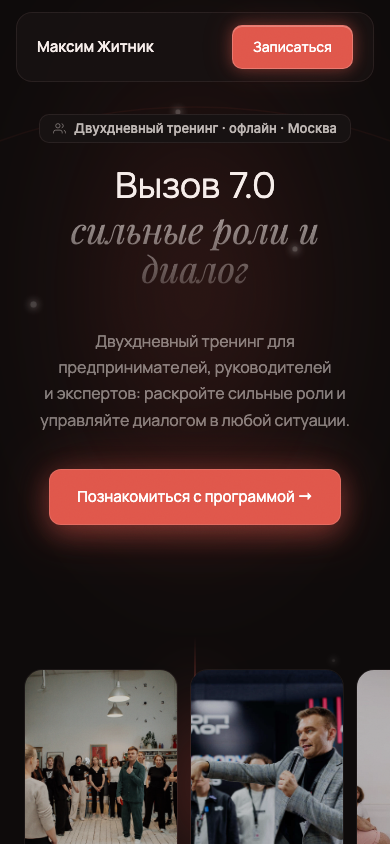
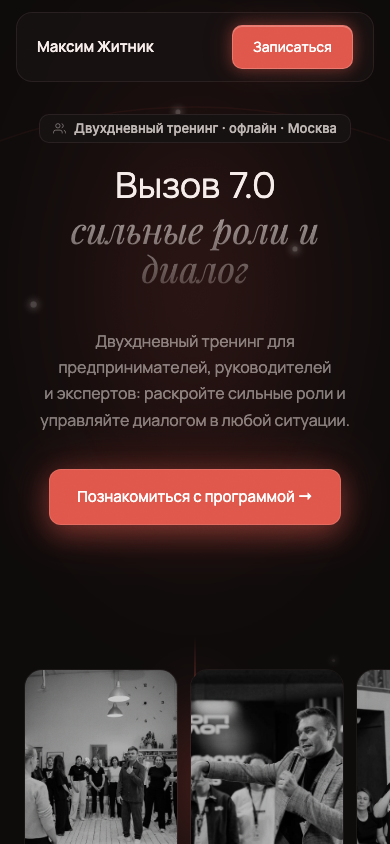
fix: лента — grayscale все карточки, углы целиком, линия за картами, фото центра и #3
- filter:grayscale(1) brightness(.8) на все .reel-inner и .reel-video;
  rc-c brightness(1.1) — ярче, но тоже ч/б; нет перебития на :hover
- padding-bottom:64px у .reel-scene — крайние карточки (scale 1.24) видны целиком
- .reel-vline z-index:-1 — линия позади всех карточек
- rc-c: training2.jpg (Максим соло МЕДИАФОРУМ) bg-position:45% top — лицо в верхней трети
- rc-1l: __224.jpg (Максим + участница, живая сцена) bg-position:62% 20%

diff --git a/index.html b/index.html
@@ -335,7 +335,7 @@ section:not(.hero)::before {
   top: auto; left: auto; transform: none;
   width: 100%;
   margin-top: 48px;
-  padding: 36px 0 0;
+  padding: 36px 0 64px;
   overflow: hidden;
   z-index: 1;
 }
@@ -355,7 +355,7 @@ section:not(.hero)::before {
     rgba(224,87,75,.65) 45%,
     rgba(224,87,75,.45) 85%,
     transparent 100%);
-  pointer-events: none; z-index: 0;
+  pointer-events: none; z-index: -1;
 }
 .reel-vline::after {
   content: '';
@@ -386,7 +386,7 @@ section:not(.hero)::before {
   position: absolute; inset: 0;
   background-size: cover; background-position: center;
   transition: transform .4s;
-  filter: brightness(.8);
+  filter: grayscale(1) brightness(.8);
   z-index: 0;
 }
 .reel-card:hover .reel-inner { transform: scale(1.04); }
@@ -400,12 +400,12 @@ section:not(.hero)::before {
   z-index: 2;
 }
 .reel-card.rc-c .reel-inner {
-  filter: brightness(1.1);
+  filter: grayscale(1) brightness(1.1);
   box-shadow: inset 0 0 60px rgba(224,87,75,.18);
 }
 /* Видео в карточках */
-.reel-video { position:absolute; inset:0; width:100%; height:100%; object-fit:cover; display:block; z-index:1; filter: brightness(.8); }
-.reel-card.rc-c .reel-video { filter: brightness(1.1); }
+.reel-video { position:absolute; inset:0; width:100%; height:100%; object-fit:cover; display:block; z-index:1; filter: grayscale(1) brightness(.8); }
+.reel-card.rc-c .reel-video { filter: grayscale(1) brightness(1.1); }
 
 /* Вогнутая лента: крайние карточки самые большие */
 .reel-card.rc-3l { transform: perspective(900px) rotateY(44deg) scale(1.24); opacity: .86; }
@@ -1444,14 +1444,14 @@ footer p { font-size: 14px; color: var(--text-muted); }
         <video class="reel-video" autoplay muted loop playsinline preload="none">
           <!-- clip_3.mp4: заменить на реальное видео от клиента -->
         </video>
-        <div class="reel-inner" style="background-image:url('assets/IMG_4236.jpg');background-position:center top;"></div>
+        <div class="reel-inner" style="background-image:url('assets/__224.jpg');background-position:62% 20%;"></div>
       </div>
 
       <div class="reel-card rc-c">
         <video class="reel-video" autoplay muted loop playsinline preload="none">
           <!-- clip_4.mp4: заменить на реальное видео от клиента -->
         </video>
-        <div class="reel-inner" style="background-image:url('assets/2B3A9543.jpg');background-position:center 15%;"></div>
+        <div class="reel-inner" style="background-image:url('assets/training2.jpg');background-position:45% top;"></div>
       </div>
 
       <div class="reel-card rc-1r">
